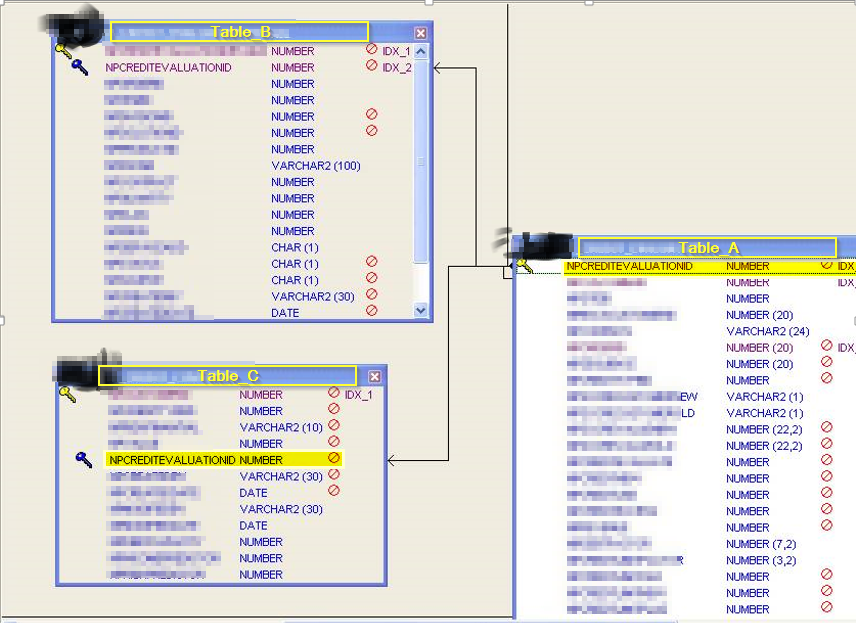
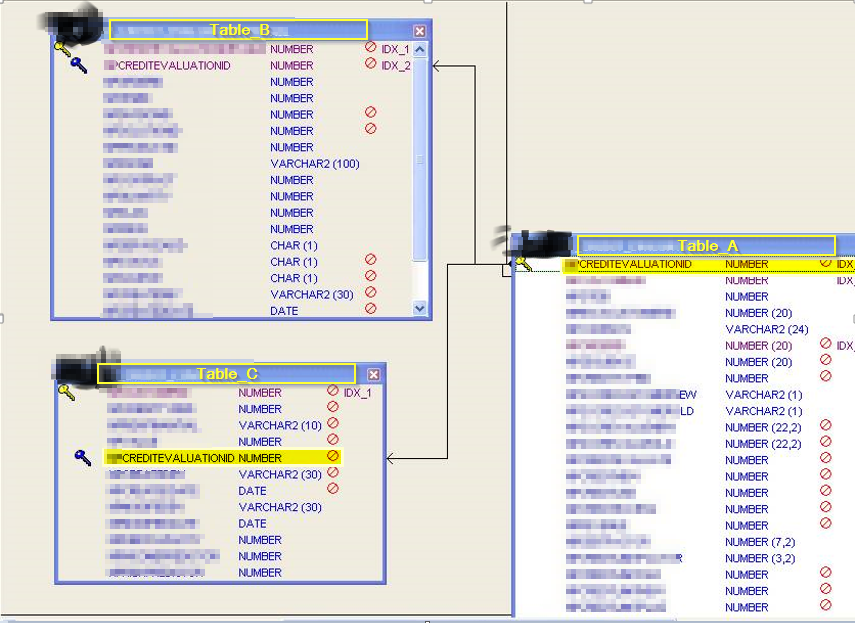
Blog update

diff --git a/_posts/2015-07-02-db-locking.md b/_posts/2015-07-02-db-locking.md
@@ -22,10 +22,10 @@ The system who suffered that problem was a CRM used by an important company. Tha
 * Most locks were generated by delete sentences like this:
 
 ``` sql
-DELETE FROM Table_A WHERE NPCREDITEVALUATIONID = :B
-DELETE FROM Table_A WHERE NPCREDITEVALUATIONID = :B
-DELETE FROM Table_A WHERE NPCREDITEVALUATIONID = :B
-DELETE FROM Table_A WHERE NPCREDITEVALUATIONID = :B
+DELETE FROM Table_A WHERE CREDITEVALUATIONID = :B
+DELETE FROM Table_A WHERE CREDITEVALUATIONID = :B
+DELETE FROM Table_A WHERE CREDITEVALUATIONID = :B
+DELETE FROM Table_A WHERE CREDITEVALUATIONID = :B
 ```
 
 ### Analysis ###
@@ -76,10 +76,10 @@ Session 3151:
             program: JDBC Thin Client
   application name: JDBC Thin Client, hash value=2546894660
   Current SQL Statement:
-  DELETE FROM Table_A WHERE NPCREDITEVALUATIONID = :B
+  DELETE FROM Table_A WHERE CREDITEVALUATIONID = :B
 End of information on OTHER waiting sessions.
 Current SQL statement for this session:
-DELETE FROM Table_A WHERE NPCREDITEVALUATIONID = :B
+DELETE FROM Table_A WHERE CREDITEVALUATIONID = :B
 ----- PL/SQL Call Stack -----
   object      line  object
   handle    number  name
@@ -131,7 +131,7 @@ Or you can use a tool to get the relationships visually. In that case, I got thi
 
 ![](/images/2015-07-02-db-locking/ER.png)
 
-The previous image shows that Table_C has a relationship by FK (column NPCREDITEVALUATIONID) with the table Table_A. However, this FK is not indexed and this was the root cause of that problem.
+The previous image shows that Table_C has a relationship by FK (column CREDITEVALUATIONID) with the table Table_A. However, this FK is not indexed and this was the root cause of that problem.
 
 After that a query was executed to detect other cases like this and after fixing them, the performance of that module was improved.
 
